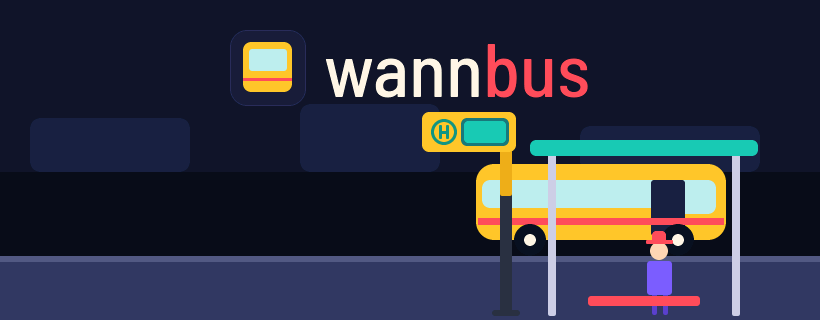
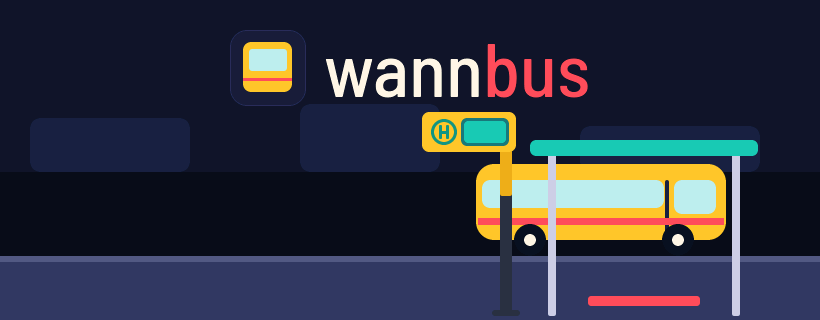
Bootanimation spielt die ganze Szene bis zur Abfahrt
Am Gerät wirkte der Schnitt bei 4,0 s wie ein Abbruch. Jetzt steigt die
Dame ein, die Tür schließt und der Bus fährt weg; die Wortmarke bleibt.
Abfrage nach fertigen Abfahrten erst nach der Abfahrt, Log mit reiner
Zeichenzeit. Am Gerät ~16 Bilder/s.

Changed region(s): [[0.7622, 0.5625, 0.8537, 1.0]]

diff --git a/test/test_bootanim/test_main.cpp b/test/test_bootanim/test_main.cpp
@@ -11,7 +11,9 @@ static void test_bus_edges(void) {
   TEST_ASSERT_EQUAL_FLOAT(kBusStart, busX(0.0f));
   TEST_ASSERT_EQUAL_FLOAT(kBusStart, busX(kEnter0));
   TEST_ASSERT_EQUAL_FLOAT(kBusStop, busX(kEnter1));
-  TEST_ASSERT_EQUAL_FLOAT(kBusStop, busX(kOnceCut));
+  TEST_ASSERT_EQUAL_FLOAT(kBusStop, busX(kDepart0));  // steht, solange die Dame einsteigt
+  TEST_ASSERT_EQUAL_FLOAT(kBusOut, busX(kDepart1));
+  TEST_ASSERT_TRUE(busX(7.0f) > kBusStop && busX(7.0f) < kBusOut);
 }
 
 static void test_bus_monotonic_and_decelerating(void) {
@@ -30,21 +32,24 @@ static void test_bus_monotonic_and_decelerating(void) {
 static void test_reveal_follows_bus(void) {
   TEST_ASSERT_TRUE(revealEdge(0.0f) <= 0.0f);  // vor der Einfahrt nichts sichtbar
   TEST_ASSERT_EQUAL_FLOAT(busX(1.5f) - kRevealGap, revealEdge(1.5f));
-  TEST_ASSERT_EQUAL_FLOAT(kBusStop - kRevealGap, revealEdge(kOnceEnd));
+  TEST_ASSERT_EQUAL_FLOAT(kBusStop - kRevealGap, revealEdge(kDepart0));
 }
 
 static void test_door(void) {
   TEST_ASSERT_EQUAL_FLOAT(0.0f, doorOpen(kDoorOpen0 - 0.1f));
   TEST_ASSERT_EQUAL_FLOAT(1.0f, doorOpen(kDoorOpen1));
   TEST_ASSERT_TRUE(doorOpen(3.1f) > 0.0f && doorOpen(3.1f) < 1.0f);
+  TEST_ASSERT_EQUAL_FLOAT(1.0f, doorOpen(kDoorClose0 - 0.01f));
+  TEST_ASSERT_EQUAL_FLOAT(0.0f, doorOpen(kDoorClose1));  // zu, bevor der Bus losfährt
 }
 
-static void test_frame_frozen_after_cut(void) {
-  const Frame a = frameAt(kOnceCut);
-  const Frame b = frameAt(kOnceEnd);
+static void test_frame_end(void) {
+  const Frame a = frameAt(kEnd);
+  const Frame b = frameAt(kEnd + 5.0f);  // danach unverändert
   TEST_ASSERT_EQUAL_FLOAT(a.busFront, b.busFront);
-  TEST_ASSERT_EQUAL_FLOAT(a.lady.yHip, b.lady.yHip);
-  TEST_ASSERT_EQUAL_INT(static_cast<int>(LadyMode::Walk), static_cast<int>(b.lady.mode));
+  TEST_ASSERT_EQUAL_FLOAT(kBusOut, b.busFront);
+  TEST_ASSERT_EQUAL_INT(static_cast<int>(LadyMode::Hidden), static_cast<int>(b.lady.mode));  // eingestiegen
+  TEST_ASSERT_EQUAL_INT(static_cast<int>(LadyMode::Walk), static_cast<int>(frameAt(4.5f).lady.mode));
 }
 
 static void test_lady_phases(void) {
@@ -63,10 +68,10 @@ static void test_should_play(void) {
 }
 
 static void test_finished(void) {
-  TEST_ASSERT_FALSE(finished(1.0f, true));    // nie mitten in der Einfahrt abbrechen
-  TEST_ASSERT_TRUE(finished(kEnter1, true));  // Abfahrten da: nach der Einfahrt weiter
-  TEST_ASSERT_FALSE(finished(4.5f, false));
-  TEST_ASSERT_TRUE(finished(kOnceEnd, false));
+  TEST_ASSERT_FALSE(finished(4.0f, true));     // Szene läuft bis zur Abfahrt
+  TEST_ASSERT_TRUE(finished(kDepart1, true));  // Abfahrten da: direkt nach der Abfahrt weiter
+  TEST_ASSERT_FALSE(finished(kDepart1, false));
+  TEST_ASSERT_TRUE(finished(kEnd, false));
 }
 
 int main(int, char **) {
@@ -75,7 +80,7 @@ int main(int, char **) {
   RUN_TEST(test_bus_monotonic_and_decelerating);
   RUN_TEST(test_reveal_follows_bus);
   RUN_TEST(test_door);
-  RUN_TEST(test_frame_frozen_after_cut);
+  RUN_TEST(test_frame_end);
   RUN_TEST(test_lady_phases);
   RUN_TEST(test_should_play);
   RUN_TEST(test_finished);

diff --git a/src/display/display_task.cpp b/src/display/display_task.cpp
@@ -56,7 +56,7 @@ abf::ViewInputs collect() {
 }
 
 // Bootanimation (BRANDING.md, Abschnitt 7): läuft nur hier im Display-Task, WLAN und Web-UI starten parallel.
-// Bricht ab, sobald Abfahrten bereitstehen (frühestens nach der Einfahrt), spätestens nach 5,5 s.
+// Ganze Szene bis der Bus weggefahren ist (~8 s); WLAN und Web-UI starten derweil.
 void playBootAnimation(int &lastBacklight) {
   const abf::View first = abf::buildView(collect());
   const esp_reset_reason_t reason = esp_reset_reason();
@@ -70,30 +70,33 @@ void playBootAnimation(int &lastBacklight) {
   ui::bootBegin(first.theme);  // ohne gültige Uhrzeit ist das Nacht
 
   const uint32_t t0 = millis();
-  uint32_t frames = 0, slowest = 0, nextCheck = 0;
+  uint32_t frames = 0, slowest = 0, busy = 0, nextCheck = 0;
   bool ready = false;
   for (;;) {
     const uint32_t start = millis();
     const float t = (start - t0) / 1000.0f;
-    if (start >= nextCheck) {  // Abfahrten schon da? Nicht in jedem Bild nachsehen
+    // Abfahrten schon da? Zählt erst nach der Abfahrt des Busses (finished()); die Abfrage kostet Zeit,
+    // die sonst den Bildern fehlt
+    if (t >= abf::boot::kDepart1 && start >= nextCheck) {
       ready = abf::buildView(collect()).screen == abf::Screen::Board;
       nextCheck = start + 250;
     }
     if (abf::boot::finished(t, ready)) break;
-    if (t <= abf::boot::kOnceCut + 0.1f) {  // danach steht das Bild, nur noch warten
-      ui::bootFrame(abf::boot::frameAt(t));
-      lv_refr_now(nullptr);
-      ++frames;
-      slowest = std::max(slowest, millis() - start);
-    }
+    const uint32_t drawStart = millis();
+    ui::bootFrame(abf::boot::frameAt(t));
+    lv_refr_now(nullptr);
+    const uint32_t ms = millis() - drawStart;  // nur Zeichnen, ohne die Abfrage oben
+    ++frames;
+    busy += ms;
+    slowest = std::max(slowest, ms);
     const uint32_t spent = millis() - start;
     vTaskDelay(pdMS_TO_TICKS(spent < 33 ? 33 - spent : 1));  // ~30 Bilder/s, anderen Tasks Luft lassen
   }
   ui::bootEnd();
   const uint32_t total = millis() - t0;
-  LOGI("disp", "Bootanimation: %u Bilder bis %.1f s, langsamstes %u ms, Ende nach %u ms%s",
-       static_cast<unsigned>(frames), static_cast<double>(abf::boot::kOnceCut), static_cast<unsigned>(slowest),
-       static_cast<unsigned>(total), ready ? " (Abfahrten bereit)" : "");
+  LOGI("disp", "Bootanimation: %u Bilder, Zeichnen im Schnitt %u ms, langsamstes %u ms, Ende nach %u ms%s",
+       static_cast<unsigned>(frames), static_cast<unsigned>(frames ? busy / frames : 0), static_cast<unsigned>(slowest), static_cast<unsigned>(total),
+       ready ? " (Abfahrten bereit)" : "");
 }
 
 void taskMain(void *) {

diff --git a/lib/dispmodel/src/boot_anim.h b/lib/dispmodel/src/boot_anim.h
@@ -12,11 +12,13 @@ constexpr float kEnter0 = 0.4f, kEnter1 = 2.7f;       // Einfahrt, ease-out cubi
 constexpr float kDoorOpen0 = 2.9f, kDoorOpen1 = 3.3f;
 constexpr float kStand = 3.7f;                          // Dame steht auf
 constexpr float kWalk0 = 3.9f, kWalk1 = 5.2f;
-constexpr float kOnceCut = 4.0f;                        // boot-once: hier anhalten …
-constexpr float kOnceHold = 1.5f;                       // … und so lange auf dem Logo stehen bleiben
-constexpr float kOnceEnd = kOnceCut + kOnceHold;
+constexpr float kDoorClose0 = 5.3f, kDoorClose1 = 5.7f;
+constexpr float kDepart0 = 6.1f, kDepart1 = 7.8f;       // Abfahrt, ease-in cubic
+constexpr float kEnd = 8.3f;
+// Am Gerät abgenommen (2026-11-15): ganze Szene inkl. Abfahrt statt „boot-once“ (Schnitt bei 4,0 s).
+// Die Wortmarke bleibt beim Wegfahren stehen, damit der Übergang auf die Abfahrten mit der Marke endet.
 
-constexpr float kBusStart = 0.0f, kBusStop = 726.0f;    // x der Busfront
+constexpr float kBusStart = 0.0f, kBusStop = 726.0f, kBusOut = 1080.0f;  // x der Busfront
 constexpr float kBusLength = 250.0f;
 constexpr float kRevealGap = 12.0f;                     // Wortmarke endet 12 px vor der Busfront
 
@@ -40,11 +42,12 @@ struct Frame {
 };
 
 float easeOutCubic(float u);
-float busX(float t);        // Busfront bei Zeit t (nur Einfahrt und Halt, boot-once)
+float easeInCubic(float u);
+float busX(float t);        // Busfront bei Zeit t
 float revealEdge(float t);  // Kante der Wortmarke; ≤ 0 vor der Einfahrt
 float doorOpen(float t);    // 0 … 1
 
-// Zustand der Szene bei Zeit t (boot-once: ab kOnceCut eingefroren)
+// Zustand der Szene bei Zeit t (ab kEnd unverändert)
 Frame frameAt(float t);
 
 // Nur bei echtem Kaltstart (Strom, Reset-Taste, USB) und wenn eingeschaltet. Nach Werksreset, Rollback,
@@ -52,7 +55,7 @@ Frame frameAt(float t);
 // Einrichtung ohne WLAN hat Vorrang; bei abgeschaltetem Display (Nachtfenster 0 %) lohnt es nicht.
 bool shouldPlay(bool enabled, bool coldStart, bool setupScreen, uint8_t backlight);
 
-// Fertig? Regulär nach kOnceEnd; sobald Abfahrten bereitstehen schon früher, aber nie vor Ende der Einfahrt.
+// Fertig? Regulär nach kEnd; sobald Abfahrten bereitstehen schon nach der Abfahrt des Busses.
 bool finished(float t, bool boardReady);
 
 }  // namespace boot

diff --git a/src/ui/boot_scene.cpp b/src/ui/boot_scene.cpp
@@ -148,17 +148,20 @@ void buildWordmark(lv_obj_t *scr, const Scene &sc) {
   const int32_t left = (kWidth - total) / 2;
   s.textRight = left + total + 2;
 
-  s.reveal = group(scr, 0, 0, 0, kHeight);
-  lv_obj_t *tile = rect(s.reveal, left, kTop, left + kIcon, kTop + kIcon, abf::brand::kNavy, 28 * kIcon / 120);
+  // Nur das Band der Wortmarke: jede Breitenänderung lässt LVGL den ganzen Container neu zeichnen
+  constexpr int32_t kBandTop = kTop - 10, kBandH = kIcon + 24;
+  s.reveal = group(scr, 0, kBandTop, 0, kBandH);
+  const int32_t y0 = kTop - kBandTop;  // Icon-Oberkante im Band
+  lv_obj_t *tile = rect(s.reveal, left, y0, left + kIcon, y0 + kIcon, abf::brand::kNavy, 28 * kIcon / 120);
   lv_obj_set_style_border_color(tile, lv_color_hex(0x2A2F5A), 0);
   lv_obj_set_style_border_width(tile, 1, 0);
   auto u = [](int32_t v) { return v * kIcon / 120; };
-  rect(s.reveal, left + u(22), kTop + u(20), left + u(98), kTop + u(98), abf::brand::kYellow, u(14));
-  rect(s.reveal, left + u(30), kTop + u(30), left + u(90), kTop + u(66), kGlass, u(6));
-  rect(s.reveal, left + u(22), kTop + u(76), left + u(98), kTop + u(82), abf::brand::kCoral);
+  rect(s.reveal, left + u(22), y0 + u(20), left + u(98), y0 + u(98), abf::brand::kYellow, u(14));
+  rect(s.reveal, left + u(30), y0 + u(30), left + u(90), y0 + u(66), kGlass, u(6));
+  rect(s.reveal, left + u(22), y0 + u(76), left + u(98), y0 + u(82), abf::brand::kCoral);
 
-  // Grundlinie so, dass die Schrift mittig zum Icon steht
-  const int32_t base = kTop + kIcon / 2 + 3 + (font->line_height - font->base_line) / 2;
+  // Grundlinie so, dass die Schrift mittig zum Icon steht (Koordinaten im Band)
+  const int32_t base = y0 + kIcon / 2 + 3 + (font->line_height - font->base_line) / 2;
   const int32_t x = left + kIcon + kGap;
   lv_obj_t *a = lv_label_create(s.reveal);
   lv_obj_remove_style_all(a);

diff --git a/lib/dispmodel/src/boot_anim.cpp b/lib/dispmodel/src/boot_anim.cpp
@@ -19,17 +19,27 @@ float easeOutCubic(float u) {
   return 1.0f - v * v * v;
 }
 
+float easeInCubic(float u) {
+  u = clamp01(u);
+  return u * u * u;
+}
+
 float busX(float t) {
   if (t < kEnter0) return kBusStart;
-  return lerp(kBusStart, kBusStop, easeOutCubic(lin(t, kEnter0, kEnter1)));
+  if (t < kDepart0) return lerp(kBusStart, kBusStop, easeOutCubic(lin(t, kEnter0, kEnter1)));
+  return lerp(kBusStop, kBusOut, easeInCubic(lin(t, kDepart0, kDepart1)));
 }
 
 float revealEdge(float t) { return t < kEnter0 ? 0.0f : busX(t) - kRevealGap; }
 
-float doorOpen(float t) { return t < kDoorOpen0 ? 0.0f : easeOutCubic(lin(t, kDoorOpen0, kDoorOpen1)); }
+float doorOpen(float t) {
+  if (t < kDoorOpen0) return 0.0f;
+  if (t < kDoorClose0) return easeOutCubic(lin(t, kDoorOpen0, kDoorOpen1));
+  return 1.0f - easeOutCubic(lin(t, kDoorClose0, kDoorClose1));
+}
 
 Frame frameAt(float t) {
-  if (t > kOnceCut) t = kOnceCut;
+  if (t > kEnd) t = kEnd;
   Frame f;
   f.busFront = busX(t);
   f.door = doorOpen(t);
@@ -44,6 +54,8 @@ Frame frameAt(float t) {
     l.mode = LadyMode::Stand;
     const float hop = sinf(lin(t, kStand, kWalk0) * 3.14159265f) * 3.0f;
     l.yHip = 313.0f - 18.0f - hop;
+  } else if (t > kWalk1 + 0.05f) {
+    l.mode = LadyMode::Hidden;  // eingestiegen
   } else {
     l.mode = LadyMode::Walk;
     const float u = lin(t, kWalk0, kWalk1);
@@ -60,7 +72,7 @@ bool shouldPlay(bool enabled, bool coldStart, bool setupScreen, uint8_t backligh
   return enabled && coldStart && !setupScreen && backlight > 0;
 }
 
-bool finished(float t, bool boardReady) { return t >= kOnceEnd || (boardReady && t >= kEnter1); }
+bool finished(float t, bool boardReady) { return t >= kEnd || (boardReady && t >= kDepart1); }
 
 }  // namespace boot
 }  // namespace abf

diff --git a/src/sim/sim_main.cpp b/src/sim/sim_main.cpp
@@ -283,7 +283,7 @@ int main(int argc, char **argv) {
   }
   // Bootanimation: Schlüsselbilder je Theme (docs/screens/boot/), Vergleich mit docs/branding/animation
   const struct { DisplayTheme theme; const char *name; } themes[] = {{DisplayTheme::Night, "nacht"}, {DisplayTheme::Day, "tag"}};
-  const float times[] = {0.0f, 1.5f, 2.7f, 3.3f, 4.0f, boot::kOnceEnd};
+  const float times[] = {0.0f, 1.5f, 2.7f, 3.3f, 4.5f, 5.5f, 7.0f, boot::kEnd};
   for (const auto &th : themes) {
     ui::bootBegin(th.theme);
     for (float t : times) {

diff --git a/docs/ROADMAP.md b/docs/ROADMAP.md
@@ -117,7 +117,7 @@ Spezifikation `docs/branding/BRANDING.md`, Prompts `docs/prompts/` (Reihenfolge 
 - [x] [A] 3 Display-Redesign (Karten, Badges, Ring, Tag/Nacht), am Gerät abgenommen 2026-11-15: große Schriften, keine Unterzeile
 - [ ] [A] 3b Marke (Logo + Wortmarke) bei Leerlauf/Restfläche
 - [x] [A] 4 Web-UI und WLAN-Portal im neuen Design, Display-Einrichtung mit Logo – am Gerät abgenommen 2026-11-15
-- [x] [A] 5 Bootanimation (LVGL aus Flächen, boot-once 4,0 s + 1,5 s Logo, Tag/Nacht) – Board-Test siehe „Offen am Board“
+- [x] [A] 5 Bootanimation (LVGL aus Flächen, ganze Szene inkl. Abfahrt ~8 s, Tag/Nacht), am Gerät: ~16 Bilder/s (Zeichnen 46 ms, Rest WLAN/TLS-Start)
 - [ ] [A] Später: Gehzeit-Feature (Minuten-Farben), zweite Datenquelle hinter `src/provider/`
 
 ## v1.0 – erstes Vollrelease von wannbus
@@ -134,8 +134,8 @@ Häkchen „Beta-Versionen erhalten“ sehen sie. Ein späteres reguläres Relea
 ## Offen am Board
 Wird von Phase-A-Sessions gepflegt. Pro Eintrag: was testen, erwartetes Ergebnis, betroffene Code-Stelle.
 Phase B hakt ab oder notiert den Befund.
-- [ ] **Bootanimation:** Stecker ziehen und wieder rein → Bus fährt ein, Wortmarke wird aufgedeckt, Dame steigt ein, Logo steht,
-  dann Abfahrten. Flüssigkeit: Logzeile `Bootanimation: N Bilder …, langsamstes X ms` (Ziel ≥ 20 Bilder/s, kein sichtbares Ruckeln),
+- [ ] **Bootanimation:** Stecker ziehen und wieder rein → Bus fährt ein, Wortmarke wird aufgedeckt, Dame steigt ein, Bus fährt weg,
+  Wortmarke bleibt, dann Abfahrten. Flüssigkeit: Logzeile `Bootanimation: N Bilder …, langsamstes X ms` (Ziel ≥ 20 Bilder/s, kein sichtbares Ruckeln),
   Bildruhe mit WLAN-Aufbau währenddessen. Startzeit bis erste Abfahrten nicht länger als ohne Animation + 1,5 s.
   Tag/Nacht passend zum Modus (ohne Uhrzeit Nacht). Keine Animation nach OTA-Update, Rollback, Werksreset, Absturz und ohne WLAN-Daten
   (Einrichtung). Schalter Einstellungen → Gerät → „Animation beim Einschalten zeigen“ aus → keine Animation.

diff --git a/docs/branding/BRANDING.md b/docs/branding/BRANDING.md
@@ -154,7 +154,10 @@ Wortmarke „wannbus“ wird mit der Busfront aufgedeckt (Kante = Busfront − 1
 Zeitachse (Sekunden): Einfahrt 0,4–2,7 (ease-out cubic, 0 → 726 px) · Tür öffnet 2,9–3,3 · Dame steht auf 3,7 · Gehen 3,9–5,2 ·
 Tür schließt 5,3–5,7 · Abfahrt 6,1–7,8 (ease-in cubic, bis 1080 px) · Ende 8,3.
 
-Zwei Varianten für den Gerätebetrieb:
+**Am Gerät abgenommen (2026-11-15):** gespielt wird die ganze Szene bis zur Abfahrt (~8 s), die Wortmarke bleibt beim Wegfahren
+stehen. „Boot-once“ (Schnitt bei 4,0 s) wirkte am Gerät wie abgebrochen. Maßgeblich: `lib/dispmodel/src/boot_anim.h`.
+
+Ursprünglich geplante Varianten für den Gerätebetrieb:
 - **Boot-once** (Standard): Schnitt bei 4,0 s, danach 1,5 s Halten auf dem Logo. Spielt einmal beim Start, dann Wechsel auf die Abfahrten.
 - **Loop**: nur für Web-Vorschau oder Demo, nicht beim Booten.
 Nacht/Tag richtet sich nach dem eingestellten Modus (Abschnitt 8).
